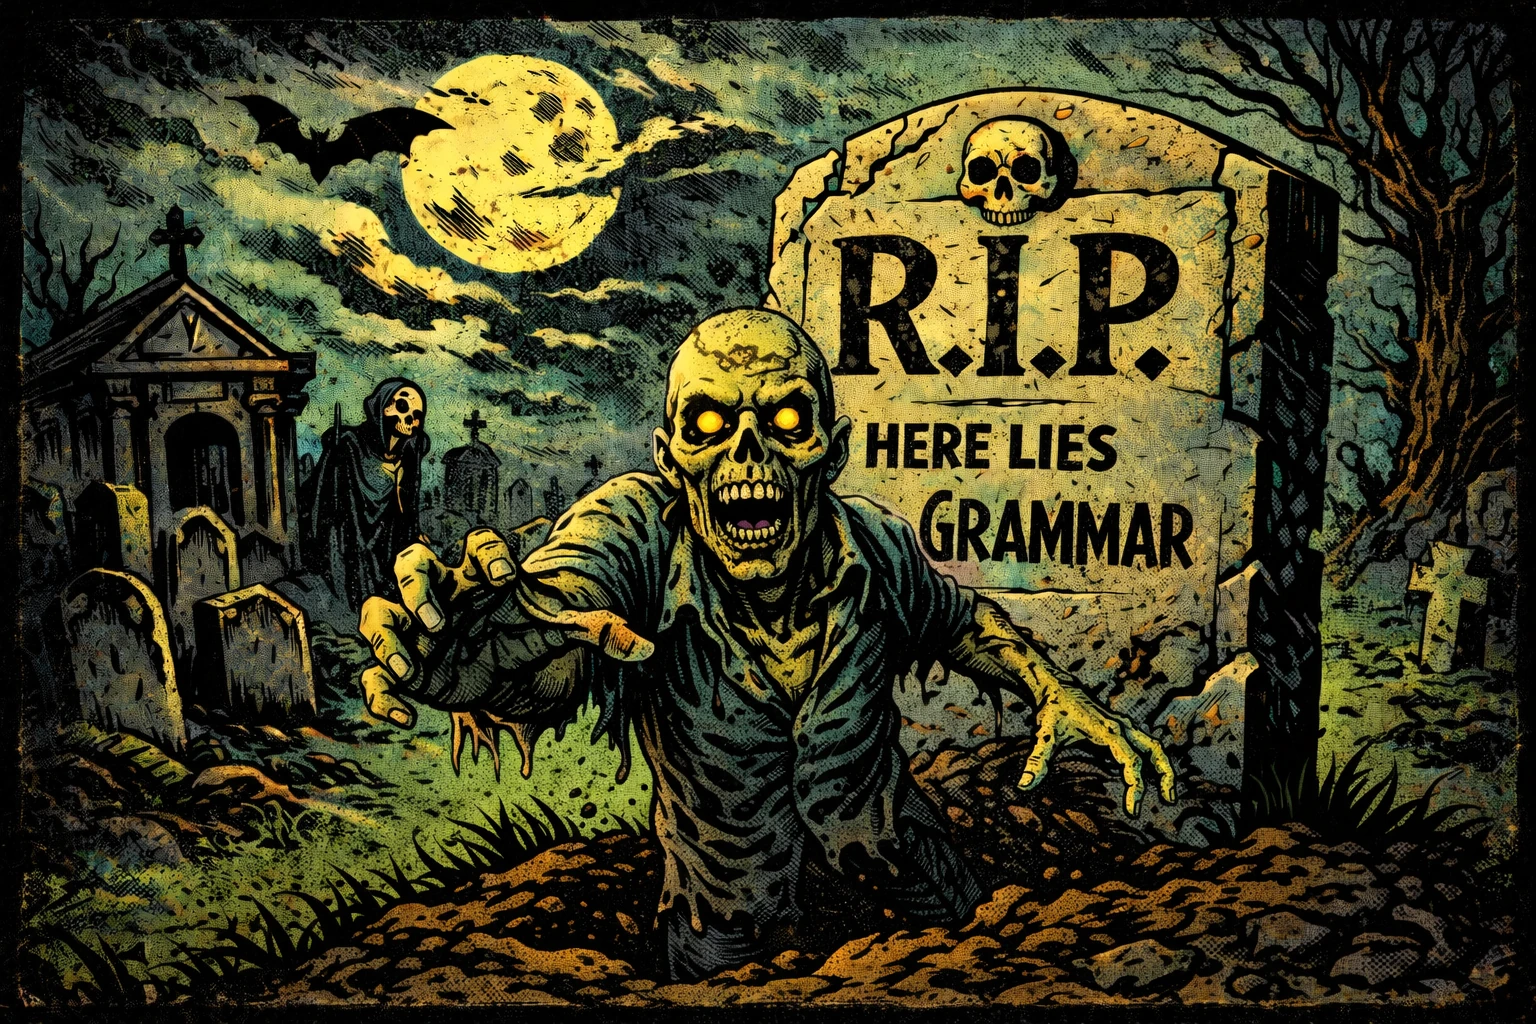
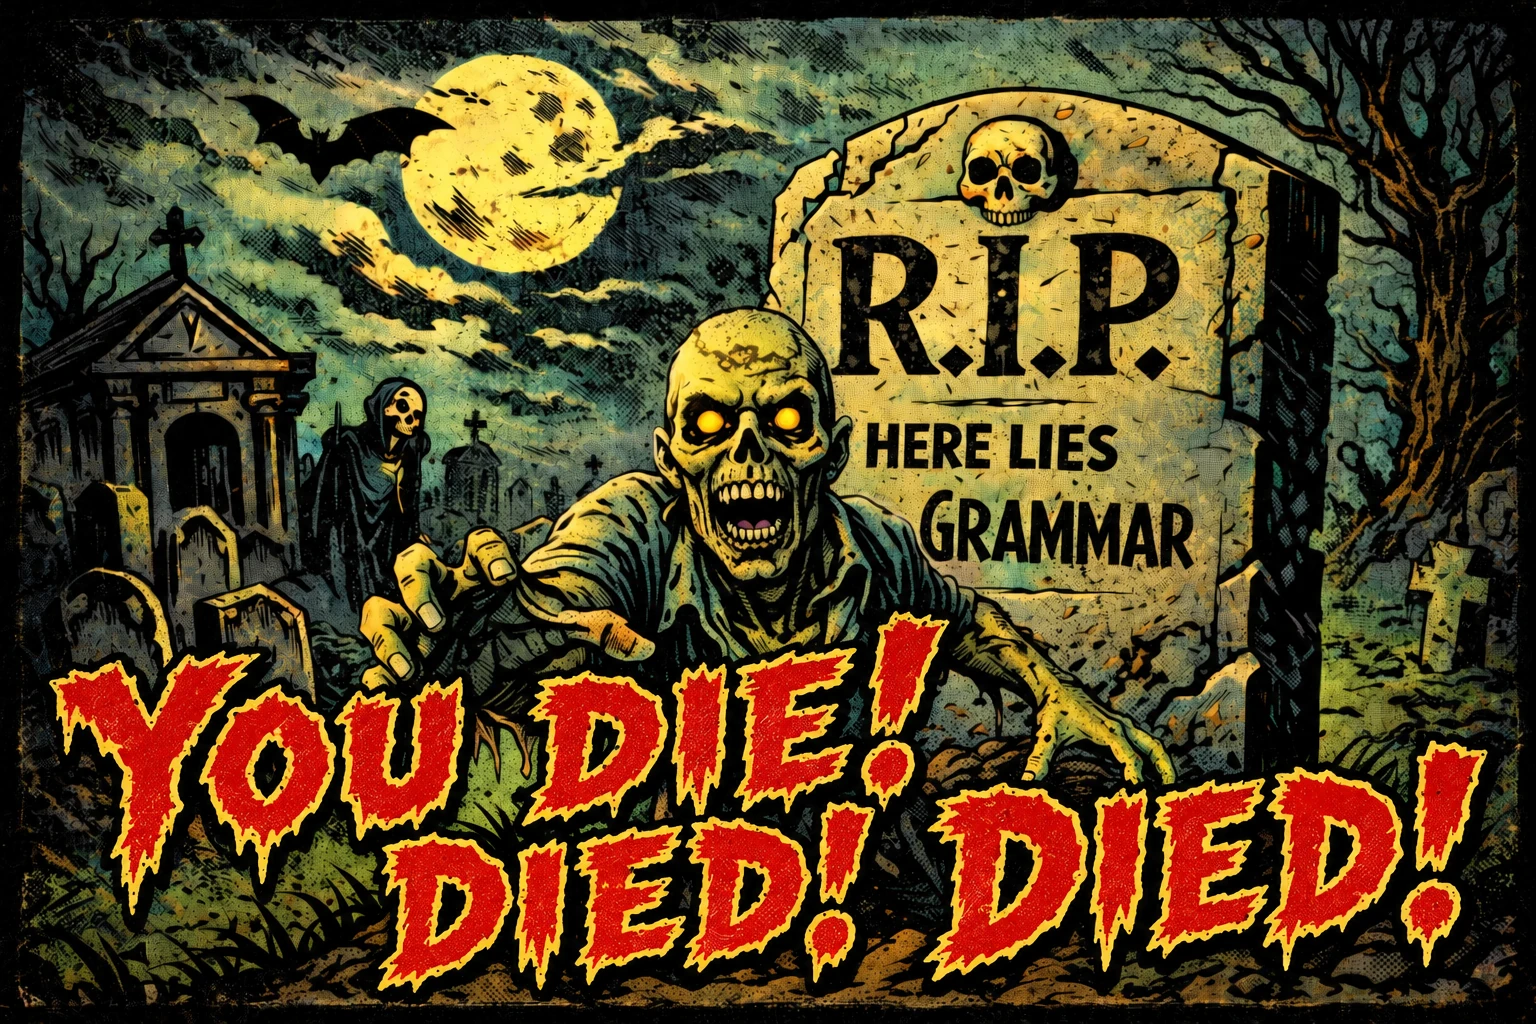
Update defeat artwork and simplify answer feedback

diff --git a/src/styles.css b/src/styles.css
@@ -41,6 +41,17 @@ body {
   background-size: 5px 5px;
 }
 [hidden] { display: none !important; }
+.visually-hidden {
+  position: absolute;
+  width: 1px;
+  height: 1px;
+  padding: 0;
+  margin: -1px;
+  overflow: hidden;
+  clip-path: inset(50%);
+  white-space: nowrap;
+  border: 0;
+}
 .comic { max-width: 1536px; margin: auto; padding: 36px 40px 24px; }
 .masthead { display: flex; justify-content: space-between; align-items: center; gap: 24px; }
 .eyebrow { color: var(--yellow); font-size: 11px; font-weight: 800; letter-spacing: 2px; text-transform: uppercase; margin: 0 0 12px; }
@@ -83,10 +94,6 @@ button { cursor: pointer; font: inherit; border-radius: 0; }
 .primary:hover { background: #ffe18b; border-color: #ffe18b; }
 .primary:active { transform: translate(1px, 1px); box-shadow: 1px 1px 0 #0008; }
 :focus-visible { outline: 3px solid #fcf5cd; outline-offset: 4px; }
-.feedback { font-size: 13px; line-height: 1.65; color: var(--paper); margin: 16px 0; }
-.feedback:empty { display: none; }
-.feedback.correct { color: var(--green); }
-.feedback.incorrect { color: #ffd0ad; }
 .panel-note { font-family: var(--comic-font); font-size: 11px; line-height: 1.7; margin: 20px 0 0; color: var(--muted); }
 #ending { border-top: 1px solid #667548; padding-top: 16px; margin-bottom: 22px; }
 #ending-heading { margin: 0 0 8px; font-family: var(--display-font); font-size: 42px; color: var(--yellow); }
@@ -270,6 +277,7 @@ figcaption {
   box-shadow: 3px 3px 0 #53482966;
 }
 .scene-number { color: #263820; }
+#scene-caption { font-size: 20px; line-height: 1.4; overflow-wrap: anywhere; }
 .play-panel {
   position: relative;
   padding: 20px;
@@ -338,11 +346,8 @@ input[aria-invalid="true"] { border-color: #ffaf8a; }
 }
 .primary:hover { border-color: #0b130c; background: #ffe394; }
 :focus-visible { outline: 3px solid #fff7da; outline-offset: 4px; }
-.feedback:not(:empty) { padding: 12px; border: 2px solid #0b130c; background: #172517; box-shadow: 3px 3px 0 #0b130c; }
-.feedback.correct { color: #d3e77f; }
-.feedback.incorrect { color: #ffd0ad; }
 .panel-note { color: #e0dfb8; font-size: 14px; }
-.feedback, .field-feedback { font-family: var(--comic-font); font-size: 15px; }
+.field-feedback { font-family: var(--comic-font); font-size: 15px; }
 #ending { border-top: 2px dashed #a6b66a; }
 #ending-heading { text-shadow: 3px 3px #0b130c; }
 footer { margin-top: 24px; padding-top: 14px; border-top: 3px solid #152015; color: #27331e; font-size: 12px; font-weight: bold; }
@@ -378,6 +383,7 @@ footer { margin-top: 24px; padding-top: 14px; border-top: 3px solid #152015; col
   .game-layout { gap: 18px; }
   .art-frame { border-width: 3px; }
   figcaption { font-size: 12px; padding: 8px; }
+  #scene-caption { font-size: 18px; }
   .play-panel { padding: 16px; }
   .panel-banner { margin: -16px -16px 18px; font-size: 21px; }
   .question-heading { padding: 14px; }

diff --git a/src/app.js b/src/app.js
@@ -11,7 +11,7 @@ const scenes = {
   start: ['01 / THE GRAVEYARD', 'Keep the dead asleep.', 'A moonlit graveyard. The central gravestone reads: Here lies bad grammar.'],
   first_error: ['02 / SOMETHING STIRS', 'A hand reaches out. Two lives remain.', 'A zombie hand emerges from the earth in front of the central gravestone.'],
   second_error: ['03 / THE DEAD RISE', 'One life left. Make it count.', 'A zombie emerges from the earth in front of the central gravestone.'],
-  game_lost: ['04 / TOO LATE', 'The graveyard claims another grammarian.', 'The zombie has escaped its grave. Defeat in the moonlit graveyard.'],
+  game_lost: ['04 / TOO LATE', 'The graveyard claims another grammarian.', 'A zombie has escaped its grave. The artwork reads: You die! Died! Died!'],
   game_won: ['05 / A NEW DAWN', 'You lived to tell the tale.', 'Sunrise lights the graveyard. The zombie is gone and the central gravestone remains.'],
 };
 
@@ -61,7 +61,6 @@ function showQuestion() {
     feedback.textContent = '';
   }
   $('feedback').textContent = '';
-  $('feedback').className = 'feedback';
   $('check-answer').hidden = false;
   $('next-verb').hidden = true;
   $('play-again').hidden = true;
@@ -98,7 +97,6 @@ $('answer-form').addEventListener('submit', (event) => {
   }
   updateStats();
   $('check-answer').hidden = true;
-  $('feedback').className = `feedback ${result.type}`;
   const summary = result.type === 'correct' ? 'Both correct! +1 point.' : 'The dead stir… −1 point, −1 life.';
   $('feedback').textContent = `${summary} ${announcements.join(' ')} Score ${game.score} of 10. ${game.lives} ${game.lives === 1 ? 'life' : 'lives'} left.`;
   if (game.status === 'playing') {

diff --git a/index.html b/index.html
@@ -61,7 +61,7 @@
           </div>
           <button class="primary" id="check-answer" type="submit">Check answer <span aria-hidden="true">↗</span></button>
         </form>
-        <div id="feedback" class="feedback" role="status" aria-live="polite" aria-atomic="true"></div>
+        <div id="feedback" class="visually-hidden" role="status" aria-live="polite" aria-atomic="true"></div>
         <button class="primary" id="next-verb" type="button" hidden>Next verb <span aria-hidden="true">→</span></button>
         <button class="primary" id="play-again" type="button" hidden>Play again <span aria-hidden="true">↻</span></button>
         <p class="panel-note" id="panel-note">Both right: +1 point.<br>A mistake: −1 point, −1 life.</p>

diff --git a/scripts/optimize_images.py b/scripts/optimize_images.py
@@ -6,6 +6,7 @@ root = Path(__file__).resolve().parent.parent
 output = root / "images" / "web"
 output.mkdir(exist_ok=True)
 for name in ("start", "first_error", "second_error", "game_lost", "game_won"):
-    with Image.open(root / "images" / f"{name}.png") as image:
+    source = "game_lost_new" if name == "game_lost" else name
+    with Image.open(root / "images" / f"{source}.png") as image:
         image.save(output / f"{name}.webp", "WEBP", quality=90, method=6)
     print(f"Created {name}.webp")

diff --git a/README.md b/README.md
@@ -32,7 +32,7 @@ Serve the files over HTTP; opening `index.html` directly with `file://` does not
 - The third mistake ends the game with **You died!**. Reaching 10 points ends it with **You win!** and sunrise artwork. No further submissions count.
 - **Play again** resets everything and shuffles a new deck. Questions do not repeat until the playable bank is exhausted; the two meanings of “lie” are separate questions with hints. There is also no immediate repeat across deck boundaries when the bank has multiple entries.
 
-The first answer field receives focus on each question. After submission, focus moves to **Next verb** or **Play again**. Tab navigates controls; Enter activates buttons. Visible focus, labelled fields, text-based lives and correctness, live feedback announcements, and reduced-motion support are included.
+The first answer field receives focus on each question. After submission, focus moves to **Next verb** or **Play again**. Tab navigates controls; Enter activates buttons. Visible focus, labelled fields, text-based lives and correctness, live feedback announcements, and reduced-motion support are included. Per-field feedback and corrections remain visible; the consolidated submission summary is announced to screen readers without displaying a separate feedback box.
 
 ## Edit the verb bank
 
@@ -61,10 +61,10 @@ The located source files are named without the `(1)` suffix:
 | Start | `images/start.png` | `images/web/start.webp` |
 | First mistake | `images/first_error.png` | `images/web/first_error.webp` |
 | Second mistake | `images/second_error.png` | `images/web/second_error.webp` |
-| Defeat | `images/game_lost.png` | `images/web/game_lost.webp` |
+| Defeat | `images/game_lost_new.png` | `images/web/game_lost.webp` |
 | Victory | `images/game_won.png` | `images/web/game_won.webp` |
 
-All retain their original 1536 × 1024 dimensions and composition. The WebP copies total about 3 MB instead of about 16 MB of PNGs. All five are preloaded and decoded; an already-loaded image replaces the previous scene, preserving the scene during a slow transition. Full 3:2 illustrations appear beside the controls on desktop and above them on smaller screens.
+All retain their original 1536 × 1024 dimensions and composition. The WebP copies total about 3 MB instead of about 16 MB of PNGs. All five are preloaded and decoded; an already-loaded image replaces the previous scene, preserving the scene during a slow transition. Full 3:2 illustrations appear beside the controls on desktop and above them on smaller screens. The defeat copy uses the supplied `game_lost_new.png`; the earlier `game_lost.png` is also preserved. Artwork feedback captions use 20 px text on desktop and 18 px on phones.
 
 If replacing artwork, keep matching filenames. To regenerate WebP copies from originals, optionally install Python and Pillow (`python -m pip install Pillow`), then run `python scripts/optimize_images.py`. Python and Pillow are not needed to run, build, or test the delivered game.
 
